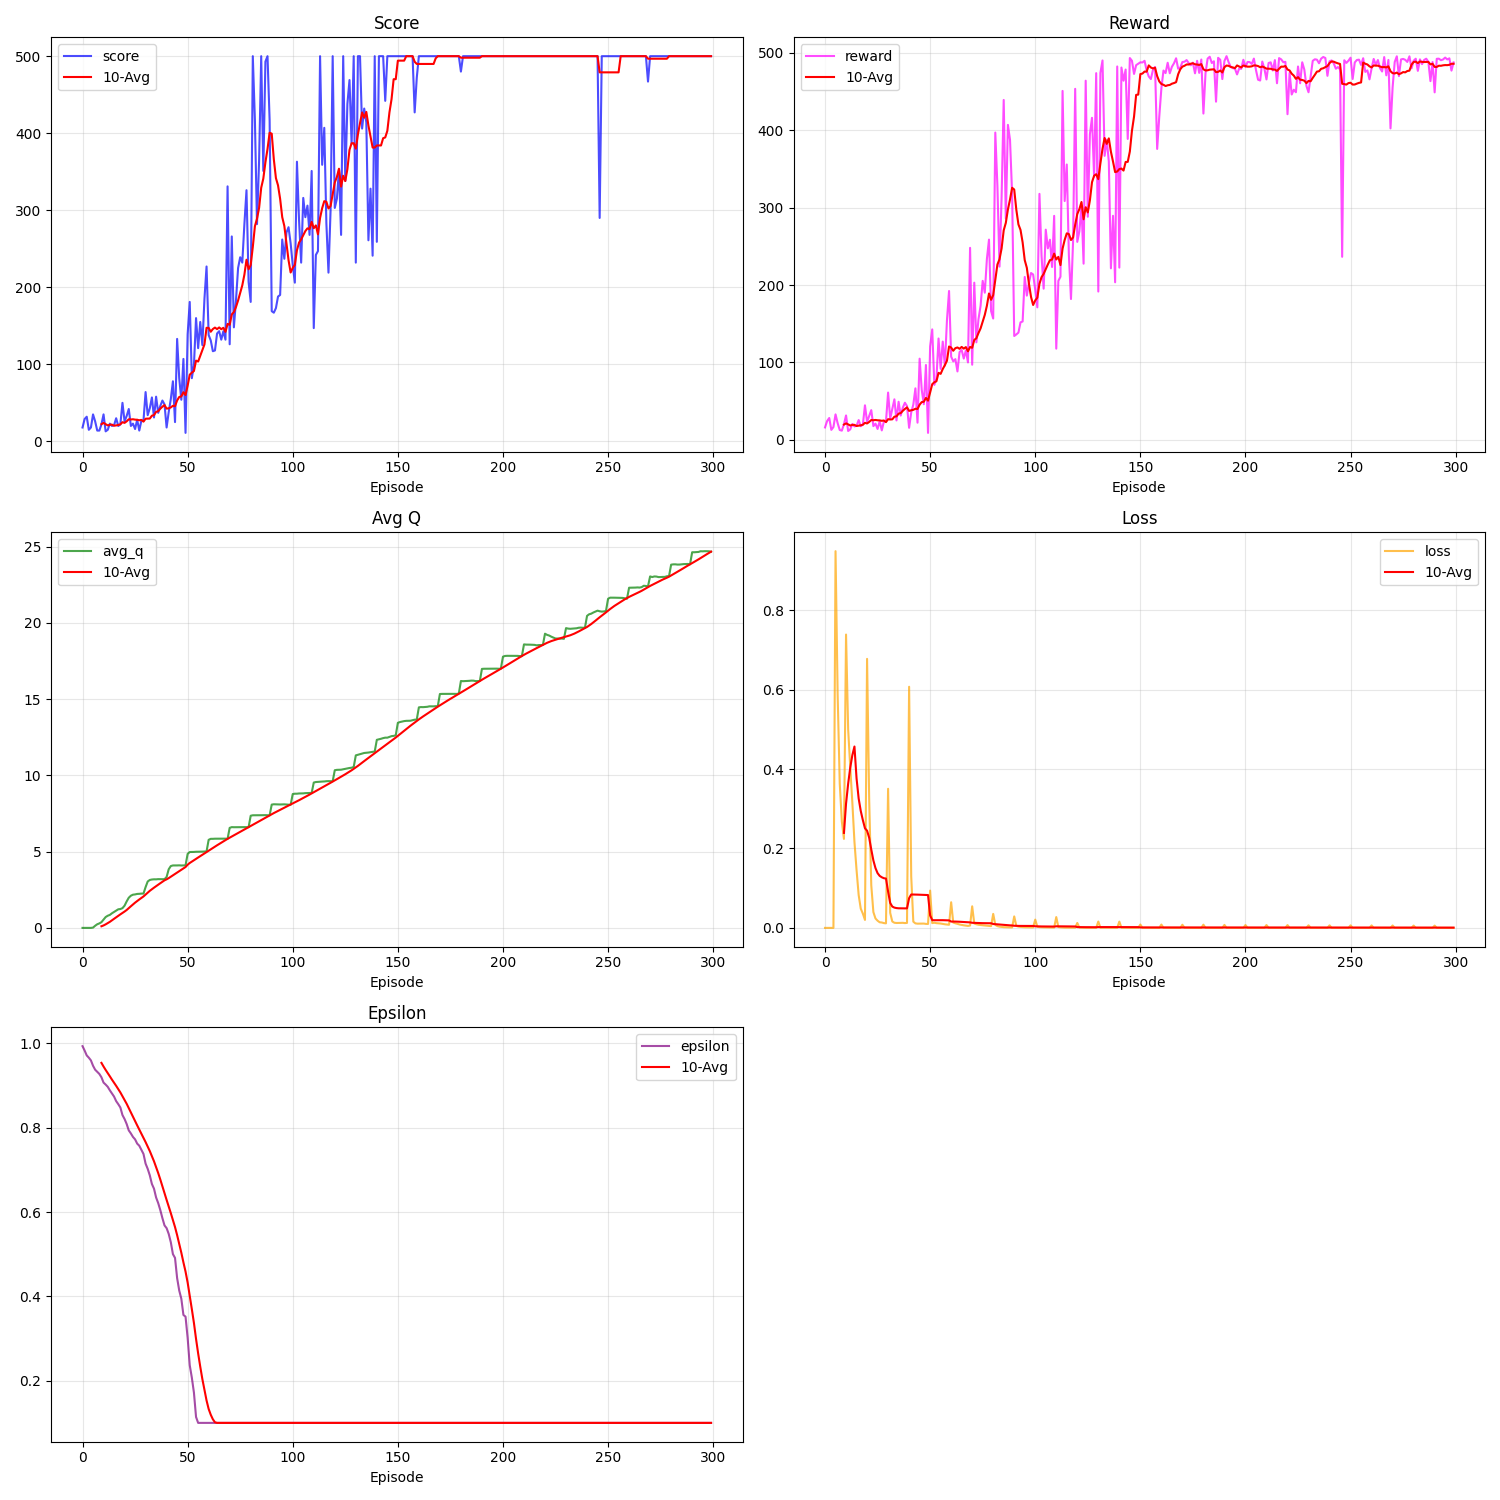
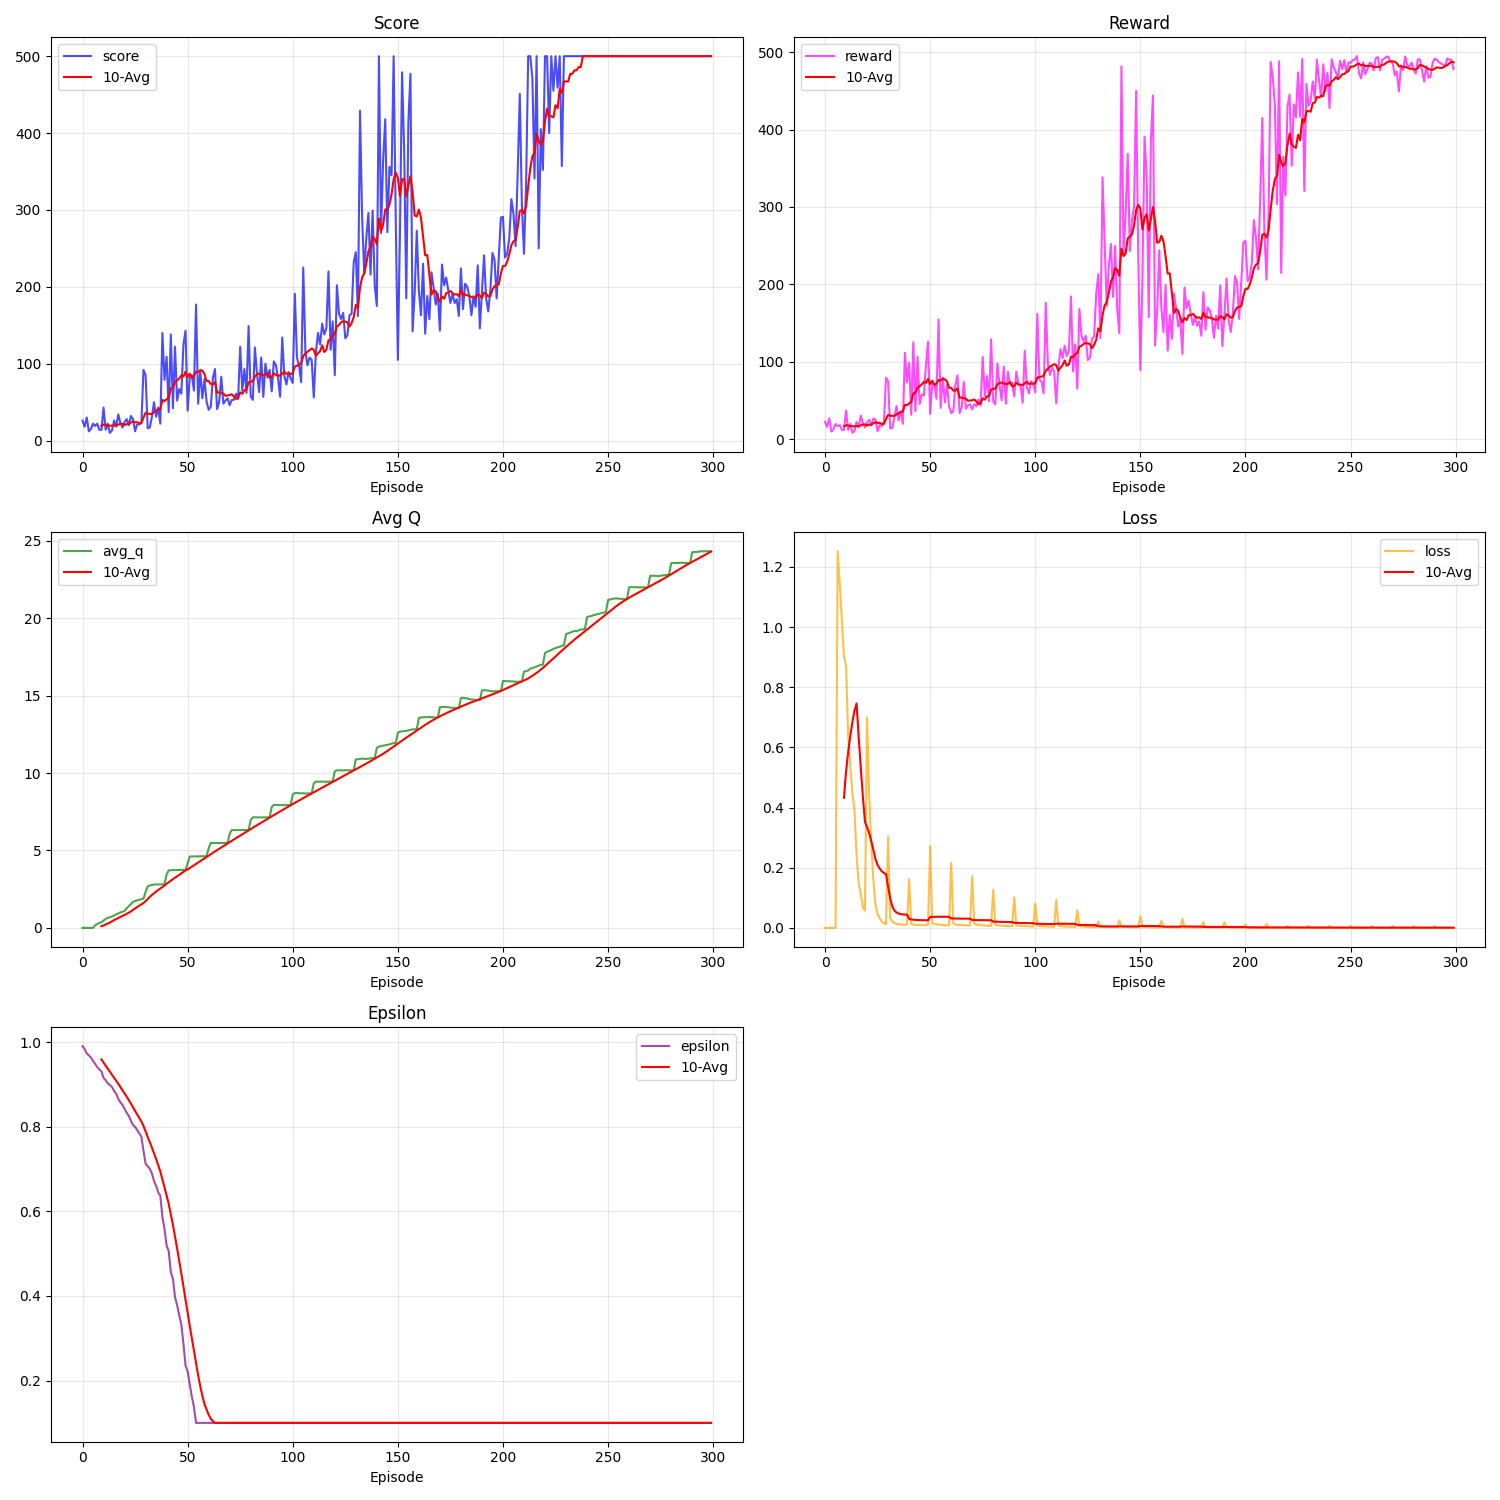
[CHORE] Duel DQN FIX]

diff --git a/Train_Duel_DQN.py b/Train_Duel_DQN.py
@@ -21,12 +21,12 @@ use_cuda = True
 episode_limit = 300
 target_update_delay = 10
 test_delay = 10
-learning_rate = 1e-3  # 학습률
+learning_rate = 1e-4  # 학습률
 epsilon = 1.0
 min_epsilon = 0.1
 # epsilon_decay: 스텝 단위로 감소 (약 2500 스텝 동안 0.9 감소)
 epsilon_decay = 0.9 / 2.5e3 
-gamma = 0.90
+gamma = 0.99
 memory_len = 10000
 train_batch_size = 128
 #train_epochs 변수 제거 (DQN은 1회만 업데이트해야 함)

diff --git a/README.md b/README.md
@@ -203,5 +203,5 @@ docker build -t cartpole-dqn-env .
 - **DDQN 학습 곡선**  
   ![DDQN Training Result](image/ddqn_training_result.png)
 
-- **DDQN 학습 곡선**  
+- **Duel DQN 학습 곡선**  
   ![Duel_DQN Training Result](image/duel_dqn_training_result.png)
